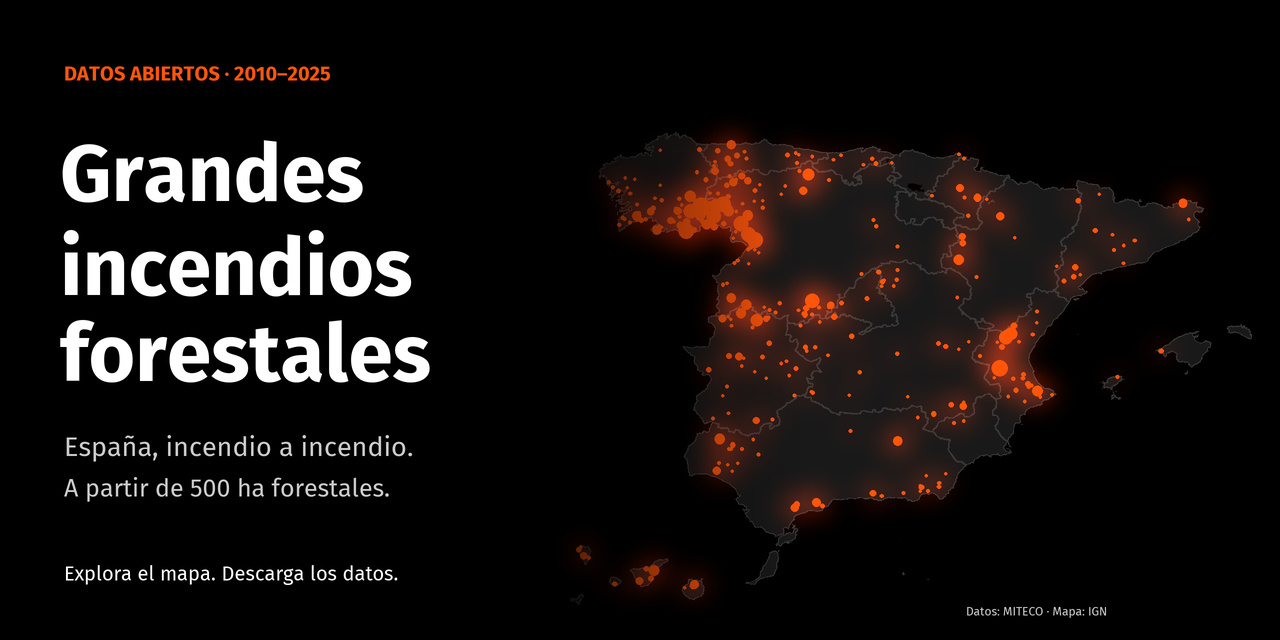
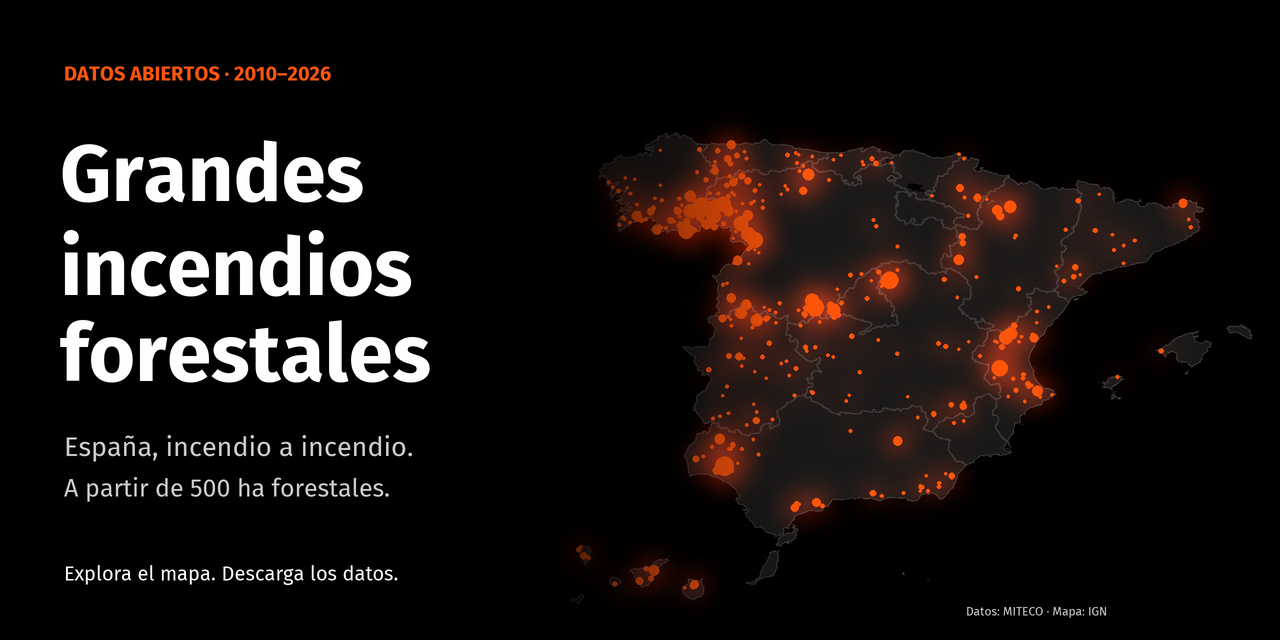
Refresh sharing cards for the 2026 wildfire data
Regenerate both sharing cards from the 451 records and document the steps for keeping Croissant metadata, page text and sharing images current.

diff --git a/scripts/README-croissant.md b/scripts/README-croissant.md
@@ -28,7 +28,7 @@ now comes from the generated Croissant descriptor.
 Install the pinned validator into a Python 3.12 virtual environment:
 
 ```sh
-python -m pip install -r scripts/requirements-croissant.txt
+python -m pip install -r scripts/requirements-croissant.txt -r scripts/requirements-microformats.txt
 python scripts/build_croissant.py
 python scripts/build_croissant.py --check
 mlcroissant validate --jsonld croissant.json
@@ -37,7 +37,7 @@ python -m unittest discover -s tests
 ```
 
 The integration test uses the official library to download the real immutable
-CSV, verify its hash and read all 404 records. It compares every code, name,
+CSV, verify its hash and read every record. It compares every code, name,
 date and area with the local CSV. Municipality codes are text; dates are dates;
 area values are numeric hectares. No record key is asserted because several
 fires can share a municipality and date.
@@ -60,6 +60,22 @@ commit containing that snapshot, review dates and coverage, and regenerate.
 Hashes and sizes use Git blob bytes to avoid Windows newline conversions.
 The official reader's integration test confirms that the pinned URL and the
 current CSV contain the same records and that the checksum is correct.
+
+Update the record count and date range in `README.md`, `index.md` and
+`llms.txt`, together with the dataset description and temporal coverage in
+`_data/structured_data.json`. Review the publication modification date and
+the landing page's `last_modified_at`; keep the original publication date.
+
+Regenerate the sharing cards with Pillow installed:
+
+```sh
+python scripts/social_banners.py
+```
+
+The generator reads the current CSV to update the map and year range in
+`assets/social-preview.jpg` and `assets/github-preview.jpg`. Review both
+images and their alt text after regeneration. Updating the local GitHub card
+also requires replacing the social preview image in the repository settings.
 
 No numbered release or formal citation has been invented. The validator may
 recommend `version` and `citeAs`; these recommendations do not prevent loading.
